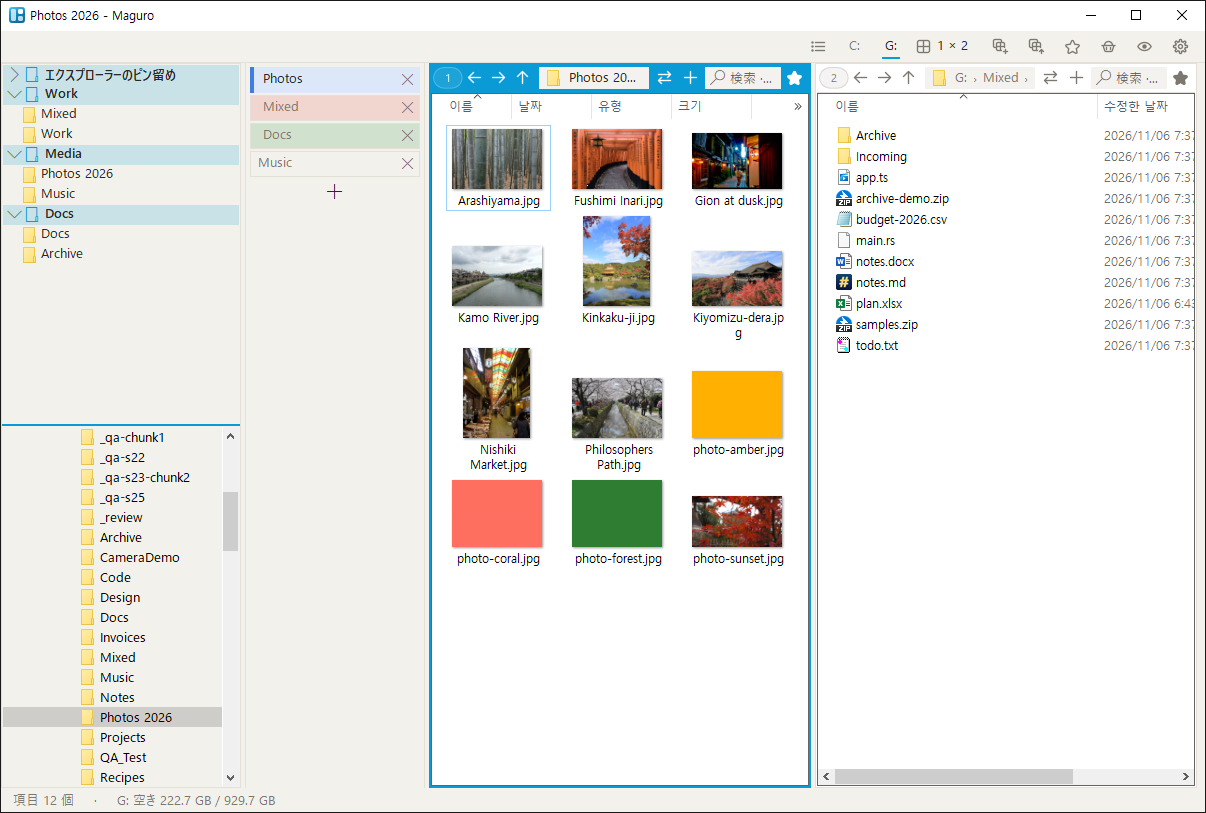
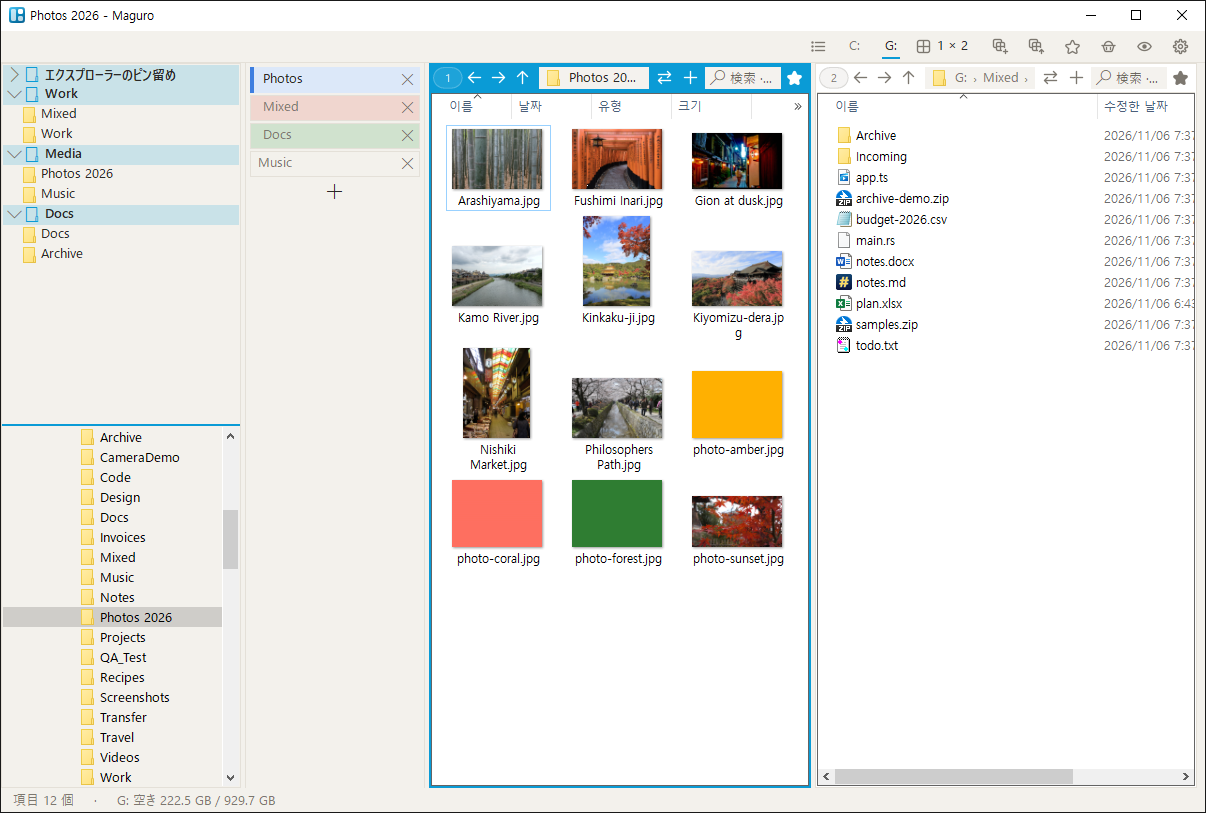
docs(captures): retake tab shots without test folders in the tree
Scroll the G: folder tree so the first visible child is Archive.
Photos 2026 stays selected. Same 1206x813 frame. _qa* and _review
are out of view.

Changed region(s): [[0.0, 0.5228, 0.1841, 0.984], [0.1841, 0.5843, 0.2148, 0.6458], [0.1841, 0.6765, 0.2148, 0.7073]]

diff --git a/docs/CAPTURES.md b/docs/CAPTURES.md
@@ -199,12 +199,12 @@ servers.png / servers.ko.png / servers.ja.png 는 **실제 호스트·자격 증
 | settings_panes.ko.png | 설정 패널·보기 | MaguroSettings page2 | light/ko | dialogs/fav 시드 | 31688 B (986×633) | capture-settings-panes.ps1 | DWM |  |
 | settings_panes.png | 설정 패널·보기 | MaguroSettings page2 | light/en | dialogs/fav 시드 | 34309 B (986×633) | capture-settings-panes.ps1 | DWM |  |
 | tab_list.png | 탭 목록 | MaguroTabList | light/en | tabs.json | 17406 B (562×532) | WM_COMMAND 탭목록 | DWM |  |
-| tabs.ja.png | 창 탭·패널 탭 | MaguroMain | light/ja | tabs.ja.json | 229004 B (1206×813) | tabs cfg | DWM, 1px 테두리 유지 | **2026-11-16 images-v9.** Photos(선택, 파랑 줄) / Mixed·Docs는 옅은 색만 / Music 무색. G:\\Photos 2026 + G:\\Mixed |
-| tabs.ko.png | 창 탭·패널 탭 | MaguroMain | light/ko | tabs.ko.json | 226443 B (1206×813) | tabs cfg | DWM, 1px 테두리 유지 | **2026-11-16 images-v9.** 선택 탭만 색 줄 |
-| tabs.png | 창 탭·패널 탭 | MaguroMain | light/en | tabs.json | 225980 B (1206×813) | tabs cfg | DWM, 1px 테두리 유지 | **2026-11-16 images-v9.** Selected Photos has the blue stripe. Mixed and Docs are tint only. Music is uncoloured |
-| vertical_tabs.ja.png | 세로 창 탭 | MaguroMain | light/ja | tabs.ja.json + vertical_tabs | 234185 B (1206×813) | 같은 시드에 vertical_tabs=true | DWM, 1px 테두리 유지 | **2026-11-16 images-v9.** 옛 v8은 1px inset으로 1204×811. 선택 탭만 색 줄 |
-| vertical_tabs.ko.png | 세로 창 탭 | MaguroMain | light/ko | tabs.ko.json + vertical_tabs | 230974 B (1206×813) | 같은 시드에 vertical_tabs=true | DWM, 1px 테두리 유지 | **2026-11-16 images-v9.** |
-| vertical_tabs.png | 세로 창 탭 | MaguroMain | light/en | tabs.json + vertical_tabs | 230876 B (1206×813) | same seed with vertical_tabs=true | DWM, 1px frame kept | **2026-11-16 images-v9.** Old v8 was 1204×811 after a 1px inset. Only the selected tab has a stripe |
+| tabs.ja.png | 창 탭·패널 탭 | MaguroMain | light/ja | tabs.ja.json | 228887 B (1206×813) | tabs cfg | DWM, 1px 테두리 유지 | **2026-11-16 images-v9.** Photos(선택, 파랑 줄) / Mixed·Docs는 옅은 색만 / Music 무색. G:\\Photos 2026 + G:\\Mixed. 폴더 트리는 Archive부터 |
+| tabs.ko.png | 창 탭·패널 탭 | MaguroMain | light/ko | tabs.ko.json | 225918 B (1206×813) | tabs cfg | DWM, 1px 테두리 유지 | **2026-11-16 images-v9.** 선택 탭만 색 줄. 폴더 트리는 Archive부터 |
+| tabs.png | 창 탭·패널 탭 | MaguroMain | light/en | tabs.json | 225835 B (1206×813) | tabs cfg | DWM, 1px 테두리 유지 | **2026-11-16 images-v9.** Selected Photos has the blue stripe. Mixed and Docs are tint only. Music is uncoloured. Folder tree starts at Archive |
+| vertical_tabs.ja.png | 세로 창 탭 | MaguroMain | light/ja | tabs.ja.json + vertical_tabs | 234051 B (1206×813) | 같은 시드에 vertical_tabs=true | DWM, 1px 테두리 유지 | **2026-11-16 images-v9.** 옛 v8은 1px inset으로 1204×811. 선택 탭만 색 줄. 폴더 트리는 Archive부터 |
+| vertical_tabs.ko.png | 세로 창 탭 | MaguroMain | light/ko | tabs.ko.json + vertical_tabs | 231820 B (1206×813) | 같은 시드에 vertical_tabs=true | DWM, 1px 테두리 유지 | **2026-11-16 images-v9.** 폴더 트리는 Archive부터 |
+| vertical_tabs.png | 세로 창 탭 | MaguroMain | light/en | tabs.json + vertical_tabs | 230660 B (1206×813) | same seed with vertical_tabs=true | DWM, 1px frame kept | **2026-11-16 images-v9.** Old v8 was 1204×811 after a 1px inset. Only the selected tab has a stripe. Folder tree starts at Archive |
 | view_menu.ja.png | 톱니 보기 메뉴 | #32768 두 장 | light/ja | tabs.ja.json | 21896 B (738×437) | WM_COMMAND 207, 表示 하위 메뉴 | 메뉴만 흰 캔버스 | **2026-11-16 images-v9.** タブを縦に並べる, 단축키 없음, 체크 없음. 메뉴 사이 흰 칸은 캔버스 |
 | view_menu.ko.png | 톱니 보기 메뉴 | #32768 두 장 | light/ko | tabs.ko.json | 16079 B (575×437) | WM_COMMAND 207, 보기 하위 메뉴 | 메뉴만 흰 캔버스 | **2026-11-16 images-v9.** 탭을 세로로 표시 |
 | view_menu.png | 톱니 보기 메뉴 | #32768 두 장 | light/en | tabs.json | 20839 B (693×437) | WM_COMMAND 207, View submenu | menus only, white canvas | **2026-11-16 images-v9.** Vertical tabs, no shortcut, unchecked. The white corner is the canvas, not another window |
@@ -258,6 +258,8 @@ powershell -NoProfile -ExecutionPolicy Bypass -File docs\capture\capture-main.ps
 시스템 대화상자(IFileOperation 진행, 탐색기 메뉴, 공통 파일 대화상자)는 그대로다. 이름 묻기, 즐겨찾기 관리, 정보, Excel, 확인 창, 그리고 팝업·알림(폴더 감시 토스트, 즐겨찾기 없음, 네트워크 실패, 빠른 복사 진행·이름 충돌, 세션 목록, 단축키, 레이아웃 고르기, 선택 칸, 서버 연결의 저장/취소)은 공유 토큰으로 옮겼다. 설정 창의 토글은 모양과 동작이 이전과 같다.
 
 ## 변경 이력 (관련)
+
+- **2026-11-16 (v0.2.25 follow-up):** `docs/images-v9/{en,ko,ja}/tabs.png`와 `vertical_tabs.png`만 다시 찍음. 같은 시드·같은 창(1206×813, 1px 테두리 유지). G: 폴더 트리를 스크롤해 첫 보이는 자식이 Archive가 되게 함. `_qa-chunk1`, `_qa-s22`, `_qa-s23-chunk2`, `_qa-s25`, `_review`는 화면 밖. Photos 2026은 선택된 채로 보임. 바이트: en tabs 225835, en vertical 230660, ko tabs 225918, ko vertical 231820, ja tabs 228887, ja vertical 234051. G:의 폴더는 바꾸지 않음.
 
 - **2026-11-16 (v0.2.25):** main `7d1954de34677a94c1e204781550539b411ace2f`에서 바뀐 화면만 `docs/images-v9/{en,ko,ja}/`에 다시 찍음. 시드는 `readme2-cfgs-v6`의 `tabs.json` / `tabs.ko.json` / `tabs.ja.json`(세로 탭은 그 복사본에 `vertical_tabs: true`), 설정은 `dialogs.json` / `favorites.ko.json` / `hero_light.ja.json`. 라이트 테마. 창 탭·세로 탭은 1206×813(1px 테두리 유지). 우클릭 설정은 986×633, 클래식 메뉴, 위에 Windows 명령 묶음. 보기 메뉴는 톱니 WM_COMMAND 207로 연 두 팝업만 흰 캔버스에 붙임(en 693×437, ko 575×437, ja 738×437). `docs/images-v8/`은 그대로 두고, README·도움말에서 이 파일들만 v9를 가리킴. 나머지 샷은 v8.
 
